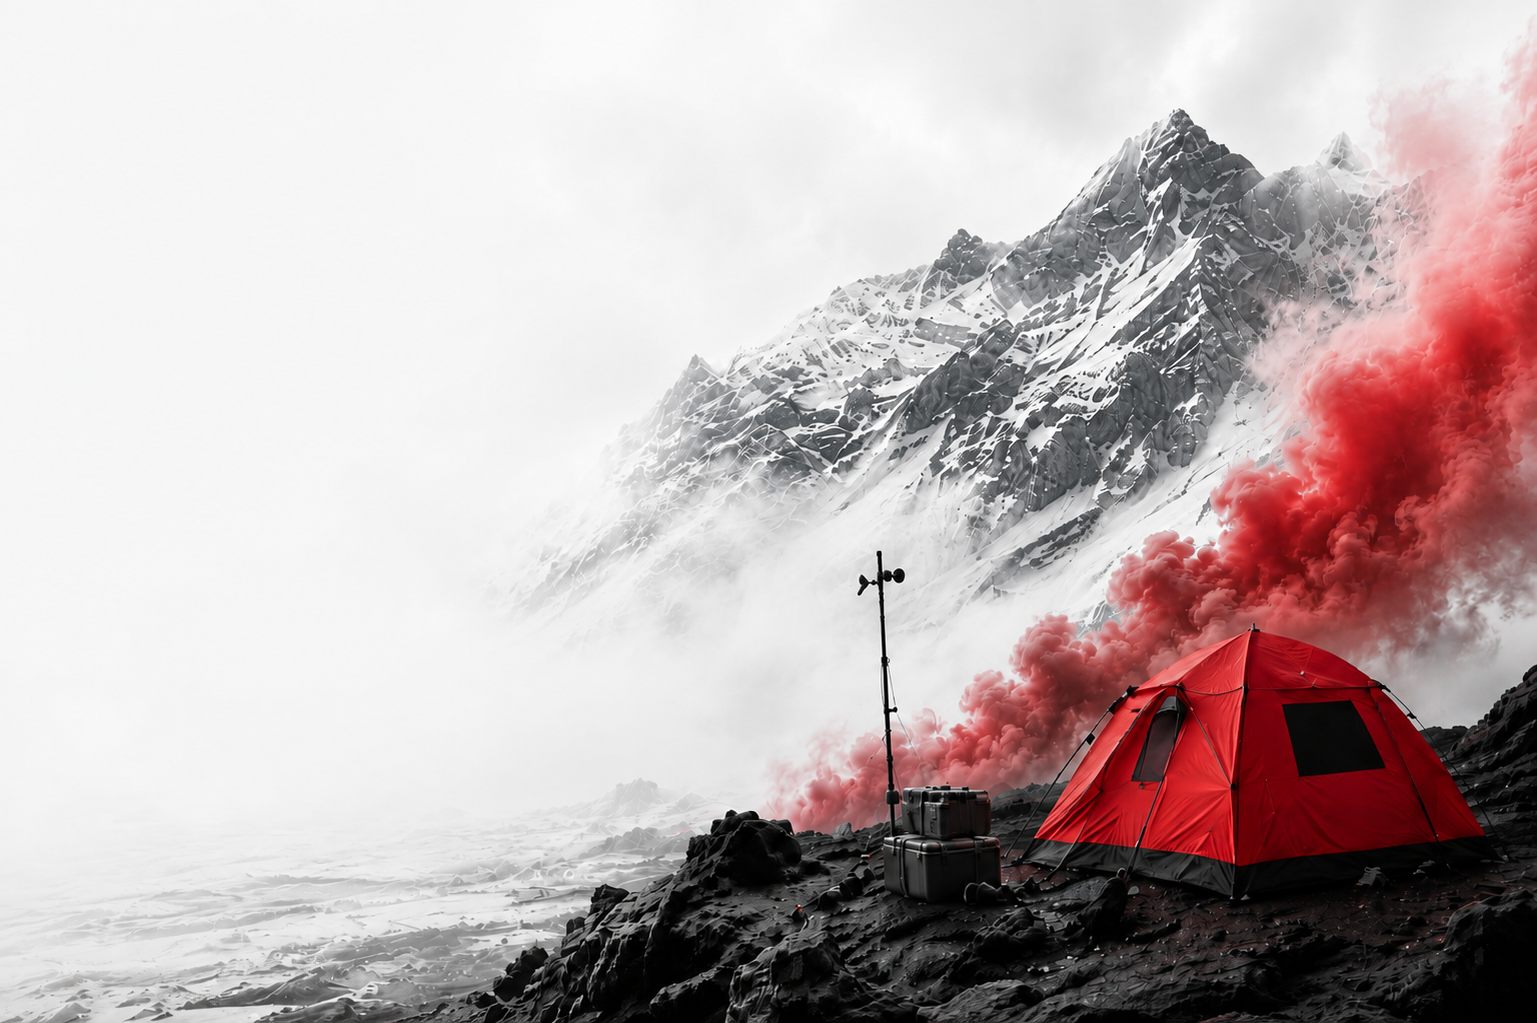
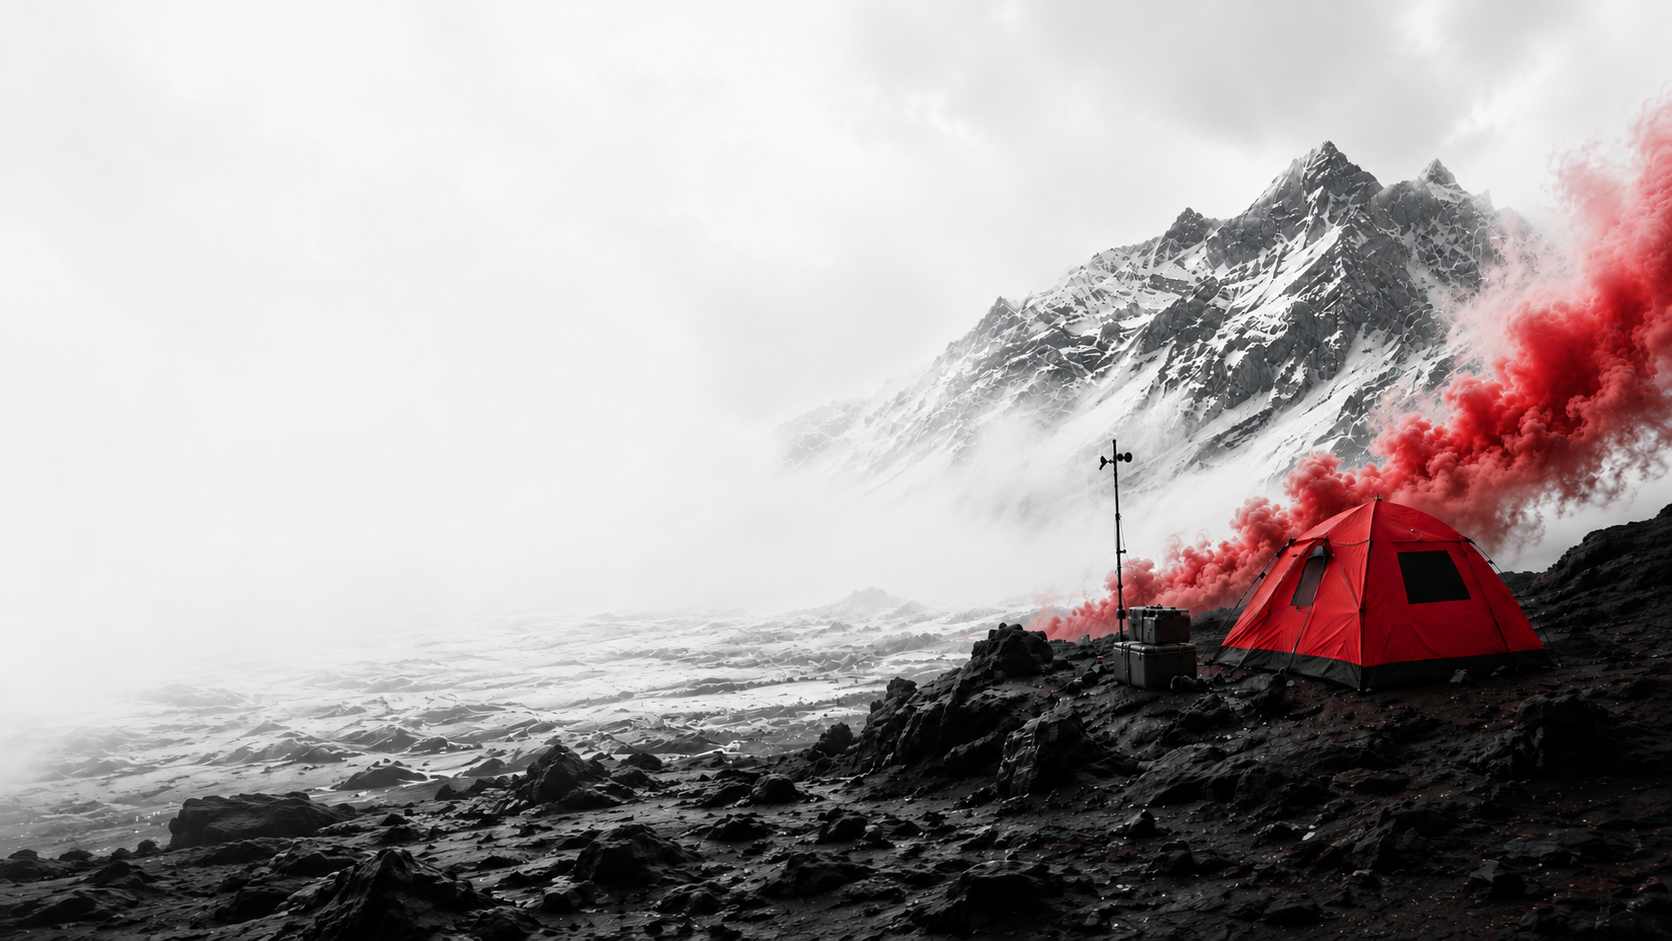
fixes

diff --git a/src/routes/about.tsx b/src/routes/about.tsx
@@ -12,6 +12,124 @@ export const Route = createFileRoute('/about')({ component: About })
 const ETHIXWEB_SERVICES = ['Web design', 'Marketing sites', 'Brand & content']
 const MEGACLOUD_SERVICES = ['App design', 'App development', 'UI / UX systems']
 
+/**
+ * Ethixweb "E" — a full-height frosted upright beside three deep-red glass
+ * rungs, each with a dark edge and a white inner highlight, plus a diagonal
+ * gloss sweep across the whole letterform. Matches the brand emblem, minus
+ * the backing plate so it sits directly on the card.
+ */
+const E_RUNG_Y = [0, 36, 72] as const
+const RUNG_H = 28
+const COL_W = 31.4
+const RUNG_W = 64.1
+
+function EthixwebMark({ className }: { className?: string }) {
+  return (
+    <svg
+      viewBox="-2 -2 99.5 104"
+      className={className}
+      role="img"
+      aria-label="Ethixweb"
+    >
+      <defs>
+        {/* frosted, lighter glass for the upright */}
+        <linearGradient id="ethix-col" x1="0" y1="0" x2="0.9" y2="1">
+          <stop offset="0%" stopColor="#f7cdd1" />
+          <stop offset="40%" stopColor="#efb0b6" />
+          <stop offset="70%" stopColor="#e79ba2" />
+          <stop offset="100%" stopColor="#f0b7bd" />
+        </linearGradient>
+        {/* deeper, glossier glass for the rungs */}
+        <linearGradient id="ethix-rung" x1="0" y1="0" x2="0.8" y2="1">
+          <stop offset="0%" stopColor="#e3959c" />
+          <stop offset="20%" stopColor="#c02330" />
+          <stop offset="52%" stopColor="#a5101a" />
+          <stop offset="80%" stopColor="#bc2c37" />
+          <stop offset="100%" stopColor="#d9666f" />
+        </linearGradient>
+        {/* single diagonal highlight raked across the letterform */}
+        <linearGradient id="ethix-sheen" x1="0" y1="1" x2="0.75" y2="0">
+          <stop offset="0%" stopColor="rgba(255,255,255,0)" />
+          <stop offset="42%" stopColor="rgba(255,255,255,0)" />
+          <stop offset="52%" stopColor="rgba(255,255,255,0.30)" />
+          <stop offset="62%" stopColor="rgba(255,255,255,0)" />
+          <stop offset="100%" stopColor="rgba(255,255,255,0)" />
+        </linearGradient>
+        <clipPath id="ethix-letter">
+          <rect x="0" y="0" width={COL_W} height="100" />
+          {E_RUNG_Y.map((y) => (
+            <rect key={y} x={COL_W} y={y} width={RUNG_W} height={RUNG_H} />
+          ))}
+        </clipPath>
+        <filter id="ethix-drop" x="-15%" y="-15%" width="135%" height="135%">
+          <feDropShadow
+            dx="1"
+            dy="1.4"
+            stdDeviation="1.1"
+            floodColor="#7d0a12"
+            floodOpacity="0.3"
+          />
+        </filter>
+      </defs>
+
+      <g filter="url(#ethix-drop)">
+        {/* upright */}
+        <rect
+          x="0"
+          y="0"
+          width={COL_W}
+          height="100"
+          fill="url(#ethix-col)"
+          stroke="#9c0f18"
+          strokeWidth="1.2"
+        />
+        <rect
+          x="1.5"
+          y="1.5"
+          width={COL_W - 3}
+          height="97"
+          fill="none"
+          stroke="rgba(255,255,255,0.9)"
+          strokeWidth="0.7"
+        />
+
+        {/* rungs */}
+        {E_RUNG_Y.map((y) => (
+          <g key={y}>
+            <rect
+              x={COL_W}
+              y={y}
+              width={RUNG_W}
+              height={RUNG_H}
+              fill="url(#ethix-rung)"
+              stroke="#9c0f18"
+              strokeWidth="1.2"
+            />
+            <rect
+              x={COL_W + 1.5}
+              y={y + 1.5}
+              width={RUNG_W - 3}
+              height={RUNG_H - 3}
+              fill="none"
+              stroke="rgba(255,255,255,0.9)"
+              strokeWidth="0.7"
+            />
+          </g>
+        ))}
+
+        <rect
+          x="0"
+          y="0"
+          width={COL_W + RUNG_W}
+          height="100"
+          fill="url(#ethix-sheen)"
+          clipPath="url(#ethix-letter)"
+        />
+      </g>
+    </svg>
+  )
+}
+
 function ServiceList({ items }: { items: ReadonlyArray<string> }) {
   return (
     <ul className="space-y-3">
@@ -101,11 +219,7 @@ function About() {
                 data-hero
                 className="flex items-center justify-center gap-4 sm:gap-6"
               >
-                <img
-                  src="/ethix-emblem.png"
-                  alt="Ethixweb"
-                  className="size-11 shrink-0 rounded-[10px] object-cover shadow-[0_0_16px_rgba(225,29,38,0.4)]"
-                />
+                <EthixwebMark className="h-10 w-auto shrink-0" />
                 <span
                   aria-hidden="true"
                   className="link-track h-[3px] w-14 shrink-0 rounded-full sm:w-28"
@@ -169,19 +283,20 @@ function About() {
         {/* expedition photograph, anchored bottom-right */}
         <div
           aria-hidden="true"
-          className="pointer-events-none absolute inset-0 bg-[image:url('/about-background.png')] bg-cover bg-[position:right_bottom] bg-no-repeat lg:bg-[length:auto_100%]"
+          className="pointer-events-none absolute inset-0 bg-[image:url('/about-background.png')] bg-cover bg-[position:72%_bottom] bg-no-repeat lg:bg-[position:right_bottom]"
         />
-        {/* white scrim so the copy stays readable over the photo */}
+        {/* white scrim so the copy stays readable over the photo — the wide crop
+            already carries fog on its left, so this only needs a gentle lift */}
         <div
           aria-hidden="true"
-          className="pointer-events-none absolute inset-0 hidden bg-[linear-gradient(to_right,rgba(255,255,255,1)_0%,rgba(255,255,255,1)_24%,rgba(255,255,255,0.55)_38%,rgba(255,255,255,0)_54%)] lg:block"
+          className="pointer-events-none absolute inset-0 hidden bg-[linear-gradient(to_right,rgba(255,255,255,0.95)_0%,rgba(255,255,255,0.8)_28%,rgba(255,255,255,0.35)_44%,rgba(255,255,255,0)_60%)] lg:block"
         />
         <div
           aria-hidden="true"
           className="pointer-events-none absolute inset-0 bg-[linear-gradient(to_bottom,rgba(255,255,255,0.94)_0%,rgba(255,255,255,0.72)_42%,rgba(255,255,255,0.1)_70%,rgba(255,255,255,0)_88%)] lg:hidden"
         />
 
-        <div className="relative mx-auto flex min-h-[34rem] max-w-[1600px] items-center px-6 pb-72 pt-20 sm:px-10 lg:min-h-[42rem] lg:px-20 lg:pb-20">
+        <div className="relative mx-auto flex min-h-[30rem] max-w-[1600px] items-center px-6 pb-56 pt-16 sm:px-10 lg:min-h-[42rem] lg:px-20 lg:pb-20 lg:pt-20">
           <div className="max-w-lg">
             <h2
               data-reveal
@@ -197,7 +312,7 @@ function About() {
               projects.
             </p>
             <div data-reveal className="mt-8">
-              <NotifyForm mailVariant="white" />
+              <NotifyForm />
             </div>
           </div>
         </div>

diff --git a/src/components/site/Hero.tsx b/src/components/site/Hero.tsx
@@ -4,32 +4,21 @@ import { CloudField } from './CloudField'
 export function Hero() {
   return (
     <section id="top" className="relative overflow-hidden bg-white">
+      {/* ---------- desktop: full-bleed layered backdrop ---------- */}
       {/* soft cloud bank drifting lower-left → upper-right, behind the phone */}
       <CloudField className="hidden lg:block" />
-      {/* mobile: same cloud bank, re-anchored behind the stacked phone + rock visual */}
-      <CloudField
-        className="lg:hidden"
-        stageClassName="bottom-[-14%] right-[-18%] h-[62%] w-[140%]"
-      />
-
       {/* phone + rock cutout (transparent bg) on top, so the clouds pass BEHIND it */}
       <div
         aria-hidden="true"
-        className="pointer-events-none absolute inset-0 bg-[image:url('/phone-rock.webp')] bg-[length:104%] bg-[position:right_bottom] bg-no-repeat lg:bg-[length:70%]"
+        className="pointer-events-none absolute inset-0 hidden bg-[image:url('/phone-rock.webp')] bg-[length:70%] bg-[position:right_bottom] bg-no-repeat lg:block"
       />
-
-      {/* desktop: left-weighted white scrim so the headline & copy stay readable over the clouds */}
+      {/* left-weighted white scrim so the headline & copy stay readable over the clouds */}
       <div
         aria-hidden="true"
         className="pointer-events-none absolute inset-0 hidden bg-[linear-gradient(to_right,rgba(255,255,255,0.78)_0%,rgba(255,255,255,0.45)_24%,rgba(255,255,255,0)_48%)] lg:block"
       />
-      {/* mobile: top-weighted white scrim so the stacked copy stays readable over the visual */}
-      <div
-        aria-hidden="true"
-        className="pointer-events-none absolute inset-0 bg-[linear-gradient(to_bottom,rgba(255,255,255,0.82)_0%,rgba(255,255,255,0.55)_46%,rgba(255,255,255,0.18)_68%,rgba(255,255,255,0)_85%)] lg:hidden"
-      />
 
-      <div className="relative mx-auto grid min-h-screen max-w-[1600px] grid-cols-1 items-start gap-10 px-6 pb-16 pt-[calc(5rem+10dvh)] sm:px-10 lg:grid-cols-2 lg:items-center lg:gap-4 lg:px-20 lg:pb-0 lg:pt-0">
+      <div className="relative mx-auto grid max-w-[1600px] grid-cols-1 items-center gap-0 px-6 pt-28 sm:px-10 lg:min-h-screen lg:grid-cols-2 lg:gap-4 lg:px-20 lg:pb-0 lg:pt-0">
         {/* ---- left: copy (dark ink pinned — hero band is always light) ---- */}
         <div className="relative z-10 max-w-xl">
           <h1 className="reveal-up font-display text-[clamp(3.75rem,11vw,7rem)] font-extrabold leading-[0.9] tracking-[-0.03em] text-[#101014]">
@@ -43,13 +32,30 @@ export function Hero() {
             className="reveal-up mt-7 max-w-md text-lg leading-relaxed text-[#56575f]"
             style={{ animationDelay: '90ms' }}
           >
-            MegaCloudWorks is an app design &amp; development studio crafting clean,
-            fast, beautiful products. Our new home is almost ready.
+            MegaCloudWorks is an app design &amp; development studio crafting
+            clean, fast, beautiful products. Our new home is almost ready.
           </p>
 
           <div className="reveal-up mt-9" style={{ animationDelay: '180ms' }}>
             <NotifyForm />
           </div>
+        </div>
+
+        {/* ---- mobile: the visual gets its own full-bleed block below the copy ---- */}
+        <div className="relative -mx-6 mt-12 h-[26rem] overflow-hidden sm:-mx-10 sm:h-[32rem] lg:hidden">
+          {/* clouds sit behind the phone, filling the block edge to edge */}
+          <CloudField stageClassName="bottom-[-10%] right-[-10%] h-[85%] w-[150%]" />
+          <img
+            src="/phone-rock.webp"
+            alt=""
+            aria-hidden="true"
+            className="pointer-events-none absolute inset-0 size-full select-none object-cover object-[center_bottom]"
+          />
+          {/* soft top fade so the visual melts into the copy above it */}
+          <div
+            aria-hidden="true"
+            className="pointer-events-none absolute inset-x-0 top-0 h-24 bg-[linear-gradient(to_bottom,rgba(255,255,255,1)_0%,rgba(255,255,255,0)_100%)]"
+          />
         </div>
       </div>
     </section>
